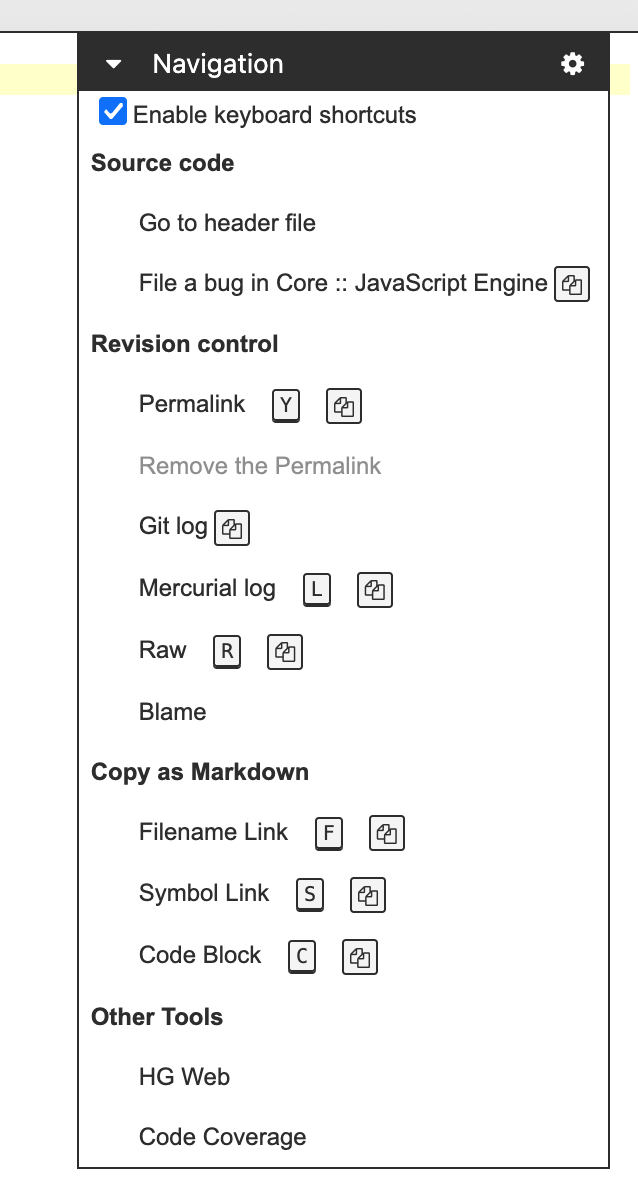
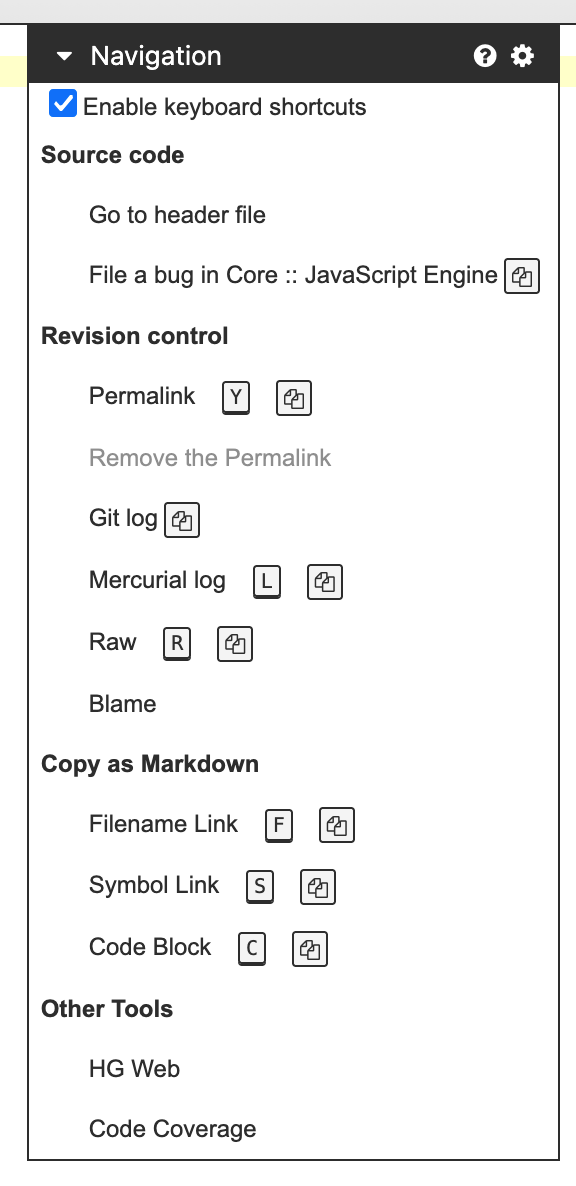
Bug 2002872 - Part 1: Document the navigation panel header items and the auto-collapse behavior. r=asuth
Differential Revision: https://phabricator.services.mozilla.com/D277688

Changed region(s): [[0.0, 0.0, 1.0, 0.9983]]

diff --git a/docs/contributing/searchfox/navigation_panel.rst b/docs/contributing/searchfox/navigation_panel.rst
@@ -7,7 +7,7 @@ The navigation panel provides various features for the current file.
 .. image:: img/navigation-panel.png
     :class: border
     :alt: The navigation panel
-    :width: 319px
+    :width: 288px
 
 In the directory listing and some other cases, the navigation panel is collapsed by default.
 Clicking the triangle icon at the left end expands/collapses the navigation panel.
@@ -15,8 +15,33 @@ Clicking the triangle icon at the left end expands/collapses the navigation pane
 .. image:: img/navigation-panel-collapsed.png
     :class: border
     :alt: The navigation panel in a closed state
-    :width: 246px
+    :width: 193px
 
+If the window width is less than 1024px, the panle is collapsed by default also in the source listing.
+This behavior can be configured in the `settings page <https://searchfox.org/firefox-main/pages/settings.html>`_.
+
+Header
+------
+
+The navigation panel provides various features for the current file.
+
+.. image:: img/navigation-panel-header.png
+    :class: border
+    :alt: The navigation panel header
+    :width: 320px
+
+Toggle button
+  Expand/collapse the navigation panel.
+
+Help button
+  Open this documentation.
+
+Settings button
+  Open the `settings page <https://searchfox.org/firefox-main/pages/settings.html>`_.
+
+
+Enable keyboard shortcuts
+  Enable the keyboard shortcuts for the panel items.
 
 Source code
 -----------
